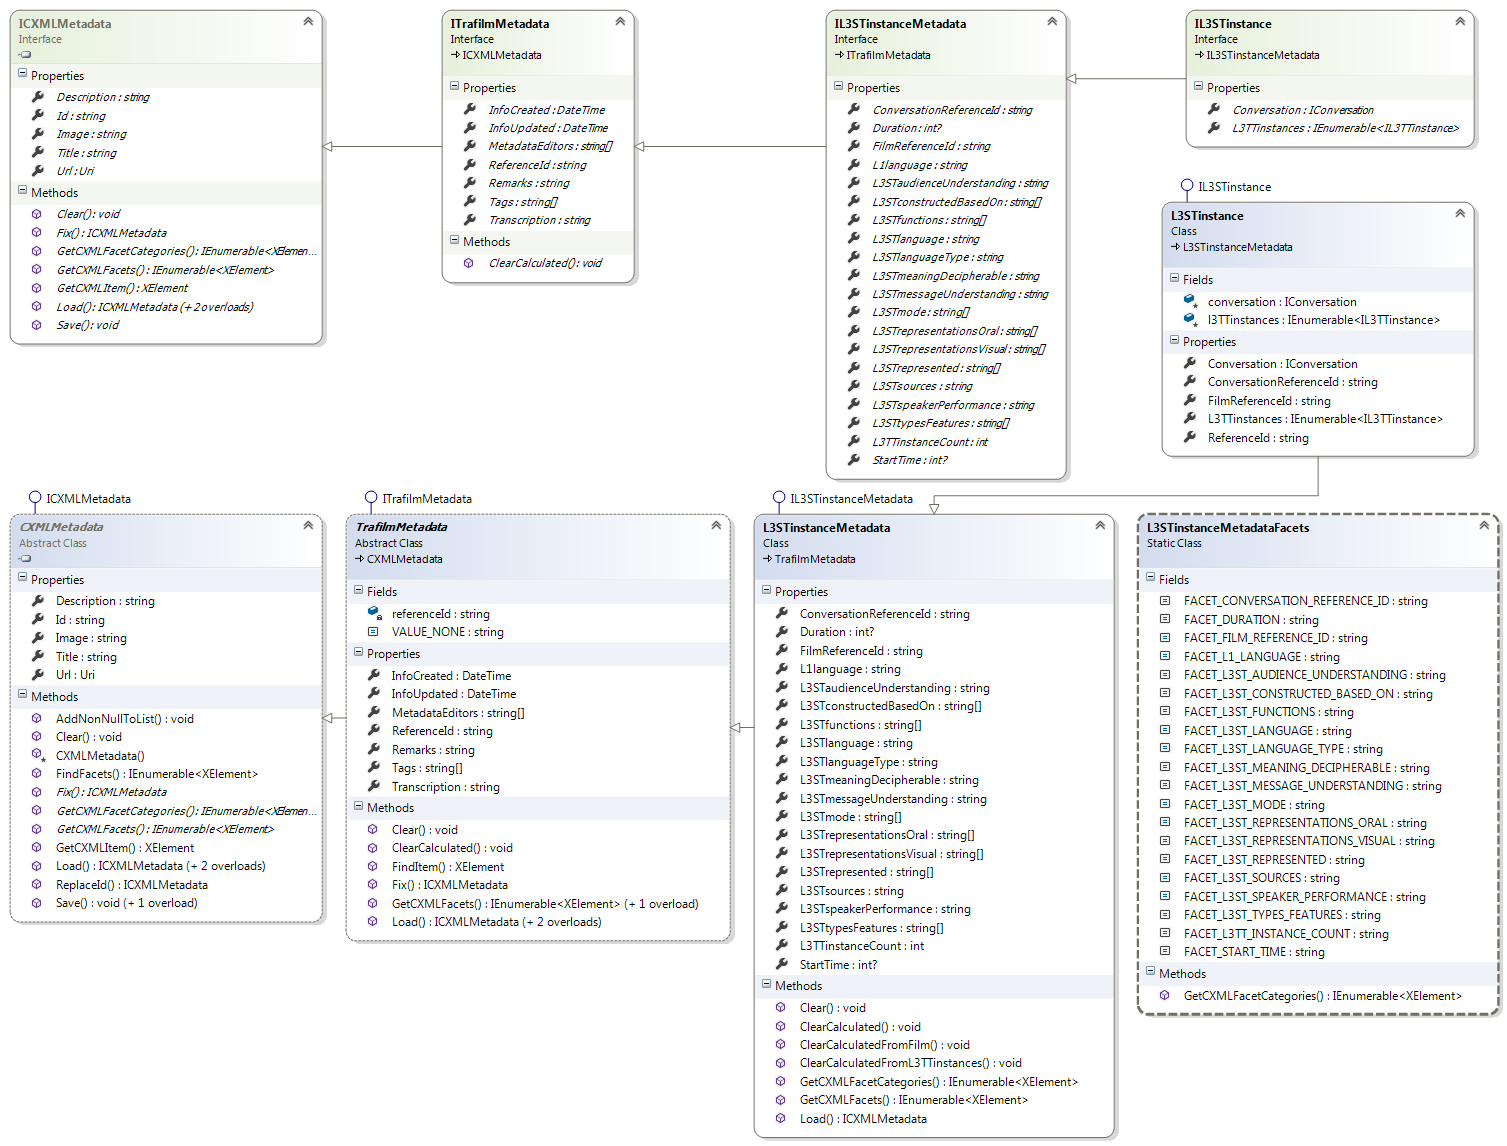
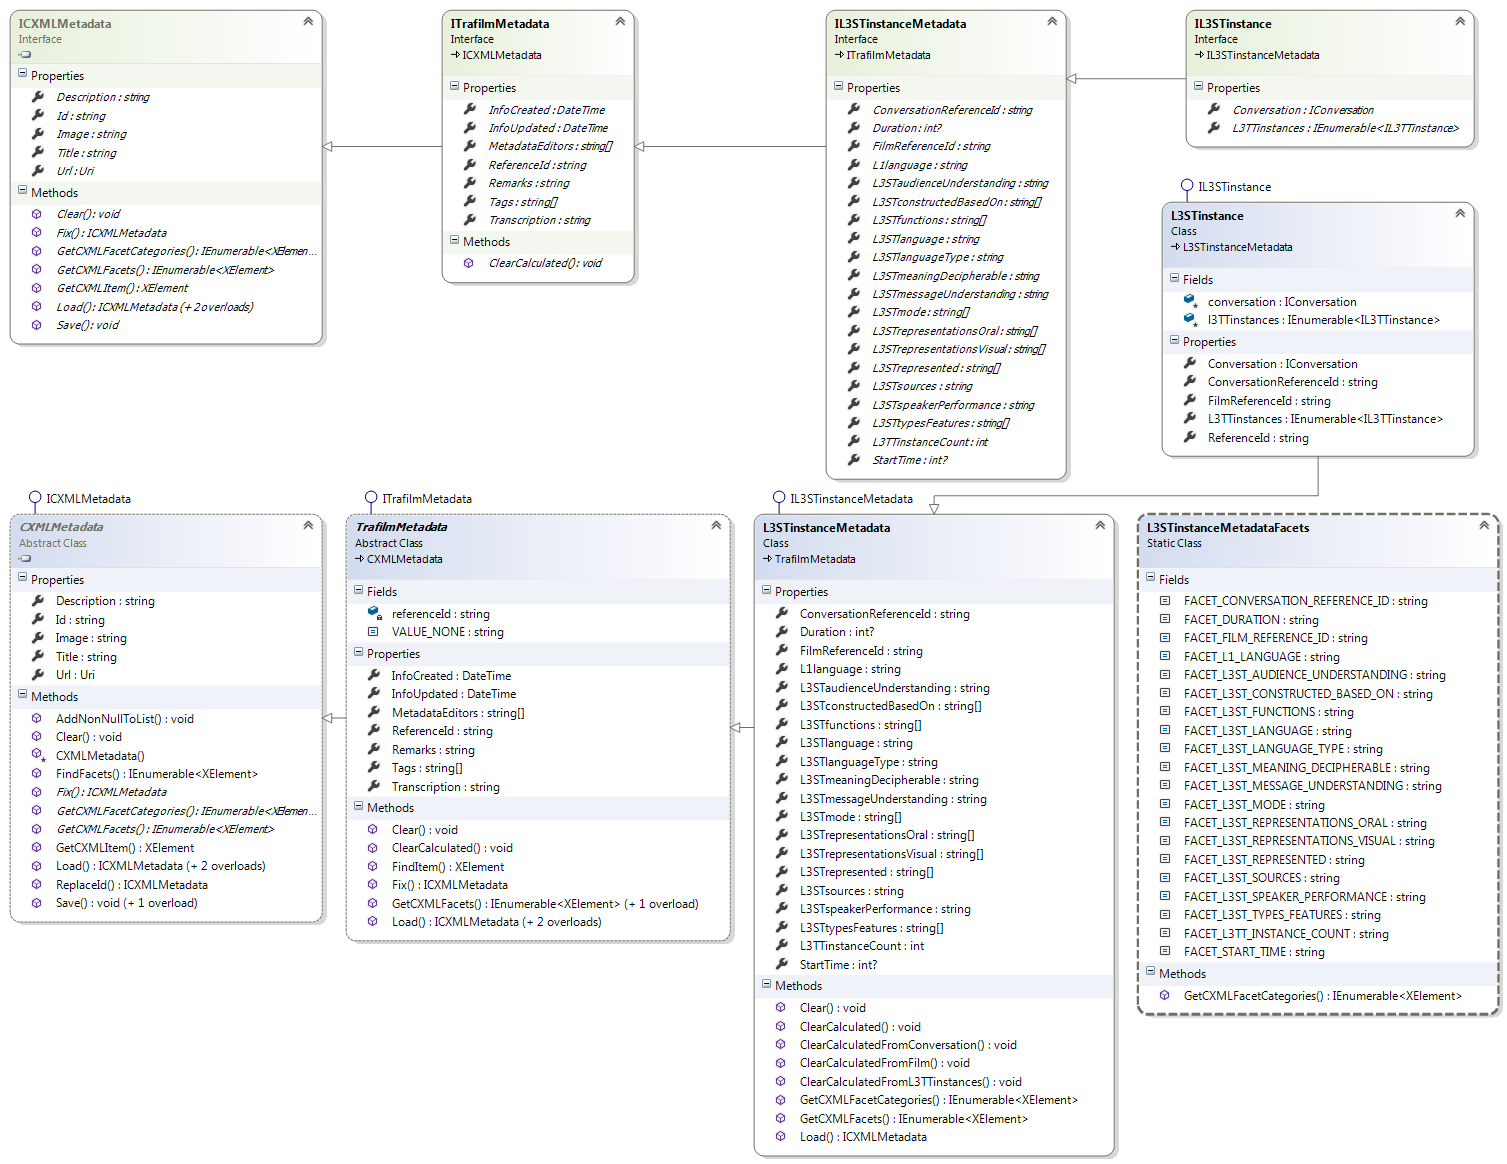
- Added StartTime/Duration to L3TTinstance, calculatable from L3STinstance (parent) - Updated Diagrams - Updated NuGet package descriptor

Changed region(s): [[0.0, 0.0, 0.998, 1.0], [0.0, 0.0305, 0.2183, 0.3054], [0.2807, 0.0, 0.4054, 0.2749]]

diff --git a/Metadata/L3TTinstance/L3TTinstanceMetadata.cs b/Metadata/L3TTinstance/L3TTinstanceMetadata.cs
@@ -1,6 +1,6 @@
 //Project: Trafilm.Metadata (https://github.com/Zoomicon/Trafilm.Metadata)
 //Filename: L3TTinstanceMetadata.cs
-//Version: 20160906
+//Version: 20160908
 
 using Metadata.CXML;
 using Trafilm.Metadata.Models;
@@ -19,6 +19,9 @@ namespace Trafilm.Metadata
     public virtual string FilmReferenceId { get; set; } //descendents can override this property to propagate change of ReferenceId where needed
     public virtual string ConversationReferenceId { get; set; } //descendents can override this property to propagate change of ReferenceId where needed
     public virtual string L3STinstanceReferenceId { get; set; } //descendents can override this property to propagate change of ReferenceId where needed
+
+    public int? StartTime { get; set; } //in minutes //Calculatable from L3STinstance
+    public int? Duration { get; set; } //in minutes //Calculatable from L3STinstance
 
     public string L2language { get; set; }
     public string L2mode { get; set; } //dubbed, subtitled
@@ -105,6 +108,8 @@ namespace Trafilm.Metadata
     {
       base.ClearCalculated();
 
+      StartTime = null;
+      Duration = null;
       L3STlanguageTypeChange = new string[] { };
       L3STmodeChange = new string[] { };
       L3STfunctionsChange = new string[] { };
@@ -121,6 +126,9 @@ namespace Trafilm.Metadata
       FilmReferenceId = facets.CXMLFacetStringValue(L3TTinstanceMetadataFacets.FACET_FILM_REFERENCE_ID);
       ConversationReferenceId = facets.CXMLFacetStringValue(L3TTinstanceMetadataFacets.FACET_CONVERSATION_REFERENCE_ID);
       L3STinstanceReferenceId = facets.CXMLFacetStringValue(L3TTinstanceMetadataFacets.FACET_L3ST_INSTANCE_REFERENCE_ID);
+
+      StartTime = (int?)facets.CXMLFacetNumberValue(L3STinstanceMetadataFacets.FACET_START_TIME); //Calculatable from L3STinstance
+      Duration = (int?)facets.CXMLFacetNumberValue(L3STinstanceMetadataFacets.FACET_DURATION); //Calculatable from L3STinstance
 
       L2language = facets.CXMLFacetStringValue(L3TTinstanceMetadataFacets.FACET_L2_LANGUAGE);
       L2mode = facets.CXMLFacetStringValue(L3TTinstanceMetadataFacets.FACET_L2_MODE);
@@ -177,6 +185,9 @@ namespace Trafilm.Metadata
       AddNonNullToList(facets, CXML.MakeStringFacet(L3TTinstanceMetadataFacets.FACET_FILM_REFERENCE_ID, FilmReferenceId));
       AddNonNullToList(facets, CXML.MakeStringFacet(L3TTinstanceMetadataFacets.FACET_CONVERSATION_REFERENCE_ID, ConversationReferenceId));
       AddNonNullToList(facets, CXML.MakeStringFacet(L3TTinstanceMetadataFacets.FACET_L3ST_INSTANCE_REFERENCE_ID, L3STinstanceReferenceId));
+
+      AddNonNullToList(facets, CXML.MakeNumberFacet(L3STinstanceMetadataFacets.FACET_START_TIME, StartTime));
+      AddNonNullToList(facets, CXML.MakeNumberFacet(L3STinstanceMetadataFacets.FACET_DURATION, Duration));
 
       AddNonNullToList(facets, CXML.MakeStringFacet(L3TTinstanceMetadataFacets.FACET_L2_LANGUAGE, L2language));
       AddNonNullToList(facets, CXML.MakeStringFacet(L3TTinstanceMetadataFacets.FACET_L2_MODE, L2mode));

diff --git a/Metadata/L3TTinstance/L3TTinstanceMetadataFacets.cs b/Metadata/L3TTinstance/L3TTinstanceMetadataFacets.cs
@@ -1,6 +1,6 @@
 //Project: Trafilm.Metadata (https://github.com/Zoomicon/Trafilm.Metadata)
 //Filename: L3TTinstanceMetadataFacets.cs
-//Version: 20160907
+//Version: 20160908
 
 using Metadata.CXML;
 using System.Collections.Generic;
@@ -18,8 +18,8 @@ namespace Trafilm.Metadata
     public const string FACET_CONVERSATION_REFERENCE_ID = "Conversation Reference Id";
     public const string FACET_L3ST_INSTANCE_REFERENCE_ID = "L3ST-instance Reference Id";
 
-    //public int? StartTime { get; set; } //in minutes //Calculatable from L3STinstance
-    //public int? Duration { get; set; } //in minutes //Calculatable from L3STinstance
+    public const string FACET_START_TIME = "Start time (min)"; //Calculatable from L3STinstance
+    public const string FACET_DURATION = "Duration (min)"; //Calculatable from L3STinstance
 
     public const string FACET_L2_LANGUAGE = "L2 language";
     public const string FACET_L2_MODE = "L2 mode"; //dubbed, subtitled
@@ -74,6 +74,9 @@ namespace Trafilm.Metadata
       result.Add(CXML.MakeFacetCategory(L3TTinstanceMetadataFacets.FACET_FILM_REFERENCE_ID, CXML.VALUE_STRING, null, isFilterVisible: true, isMetadataVisible: true, isWordWheelVisible: true));
       result.Add(CXML.MakeFacetCategory(L3TTinstanceMetadataFacets.FACET_CONVERSATION_REFERENCE_ID, CXML.VALUE_STRING, null, isFilterVisible: true, isMetadataVisible: true, isWordWheelVisible: true));
       result.Add(CXML.MakeFacetCategory(L3TTinstanceMetadataFacets.FACET_L3ST_INSTANCE_REFERENCE_ID, CXML.VALUE_STRING, null, isFilterVisible: true, isMetadataVisible: true, isWordWheelVisible: true));
+
+      result.Add(CXML.MakeFacetCategory(L3TTinstanceMetadataFacets.FACET_START_TIME, CXML.VALUE_NUMBER, null, isFilterVisible: true, isMetadataVisible: true, isWordWheelVisible: false)); //Calculatable from L3STinstance
+      result.Add(CXML.MakeFacetCategory(L3TTinstanceMetadataFacets.FACET_DURATION, CXML.VALUE_NUMBER, null, isFilterVisible: true, isMetadataVisible: true, isWordWheelVisible: false)); //Calculatable from L3STinstance
 
       result.Add(CXML.MakeFacetCategory(L3TTinstanceMetadataFacets.FACET_L2_LANGUAGE, CXML.VALUE_STRING, null, isFilterVisible: true, isMetadataVisible: true, isWordWheelVisible: true));
       result.Add(CXML.MakeFacetCategory(L3TTinstanceMetadataFacets.FACET_L2_MODE, CXML.VALUE_STRING, null, isFilterVisible: true, isMetadataVisible: true, isWordWheelVisible: false));

diff --git a/Metadata/L3STinstance/L3STinstanceMetadataFacets.cs b/Metadata/L3STinstance/L3STinstanceMetadataFacets.cs
@@ -1,6 +1,6 @@
 //Project: Trafilm.Metadata (https://github.com/Zoomicon/Trafilm.Metadata)
 //Filename: L3STinstanceMetadataFacets.cs
-//Version: 20160907
+//Version: 20160908
 
 using Metadata.CXML;
 using System.Collections.Generic;
@@ -17,8 +17,8 @@ namespace Trafilm.Metadata
     public const string FACET_FILM_REFERENCE_ID = "Film Reference Id";
     public const string FACET_CONVERSATION_REFERENCE_ID = "Conversation Reference Id";
 
-    public const string FACET_START_TIME = "Start time (min)";
-    public const string FACET_DURATION = "Duration (min)";
+    public const string FACET_START_TIME = "Start time (min)"; //Calculatable from Conversation
+    public const string FACET_DURATION = "Duration (min)"; //Calculatable from Conversation
 
     public const string FACET_L1_LANGUAGE = "Main (L1) language"; //Calculatable from Film
 
@@ -64,8 +64,8 @@ namespace Trafilm.Metadata
       result.Add(CXML.MakeFacetCategory(L3STinstanceMetadataFacets.FACET_FILM_REFERENCE_ID, CXML.VALUE_STRING, null, isFilterVisible: true, isMetadataVisible: true, isWordWheelVisible: true));
       result.Add(CXML.MakeFacetCategory(L3STinstanceMetadataFacets.FACET_CONVERSATION_REFERENCE_ID, CXML.VALUE_STRING, null, isFilterVisible: true, isMetadataVisible: true, isWordWheelVisible: true));
 
-      result.Add(CXML.MakeFacetCategory(L3STinstanceMetadataFacets.FACET_START_TIME, CXML.VALUE_NUMBER, null, isFilterVisible: true, isMetadataVisible: true, isWordWheelVisible: false));
-      result.Add(CXML.MakeFacetCategory(L3STinstanceMetadataFacets.FACET_DURATION, CXML.VALUE_NUMBER, null, isFilterVisible: true, isMetadataVisible: true, isWordWheelVisible: false));
+      result.Add(CXML.MakeFacetCategory(L3STinstanceMetadataFacets.FACET_START_TIME, CXML.VALUE_NUMBER, null, isFilterVisible: true, isMetadataVisible: true, isWordWheelVisible: false)); //Calculatable from Conversaton
+      result.Add(CXML.MakeFacetCategory(L3STinstanceMetadataFacets.FACET_DURATION, CXML.VALUE_NUMBER, null, isFilterVisible: true, isMetadataVisible: true, isWordWheelVisible: false)); //Calculatable from Conversation
 
       result.Add(CXML.MakeFacetCategory(L3STinstanceMetadataFacets.FACET_L1_LANGUAGE, CXML.VALUE_STRING, null, isFilterVisible: true, isMetadataVisible: true, isWordWheelVisible: true)); //Calculatable from Film
 

diff --git a/Metadata/L3TTinstance/IL3TTinstanceMetadata.cs b/Metadata/L3TTinstance/IL3TTinstanceMetadata.cs
@@ -1,6 +1,6 @@
 //Project: Trafilm.Metadata (https://github.com/Zoomicon/Trafilm.Metadata)
 //Filename: IL3TTinstanceMetadata.cs
-//Version: 20160906
+//Version: 20160908
 
 namespace Trafilm.Metadata.Models
 {
@@ -13,6 +13,9 @@ namespace Trafilm.Metadata.Models
     string FilmReferenceId { get; set; }
     string ConversationReferenceId { get; set; }
     string L3STinstanceReferenceId { get; set; }
+
+    int? StartTime { get; set; } //in minutes //Calculatable from L3STinstance
+    int? Duration { get; set; } //in minutes //Calculatable from L3STinstance
 
     string L2language { get; set; }
     string L2mode { get; set; } //dubbed, subtitled

diff --git a/LinkedData/L3TTinstance/L3TTinstance.cs b/LinkedData/L3TTinstance/L3TTinstance.cs
@@ -1,6 +1,6 @@
 //Project: Trafilm.Metadata (https://github.com/Zoomicon/Trafilm.Metadata)
 //Filename: L3TTinstance.cs
-//Version: 20160906
+//Version: 20160908
 
 using Trafilm.Metadata.Models;
 using Trafilm.Metadata.Utils;
@@ -52,6 +52,8 @@ namespace Trafilm.Metadata
 
         if (value != null)
         {
+          StartTime = value.StartTime;
+          Duration = value.Duration;
           L3STlanguageTypeChange = Diff.GetDifferences(value.L3STlanguageType, L3TTlanguageType);
           L3STmodeChange = Diff.GetDifferences(value.L3STmode, L3TTmode);
           L3STfunctionsChange = Diff.GetDifferences(value.L3STfunctions, L3TTfunctions);
